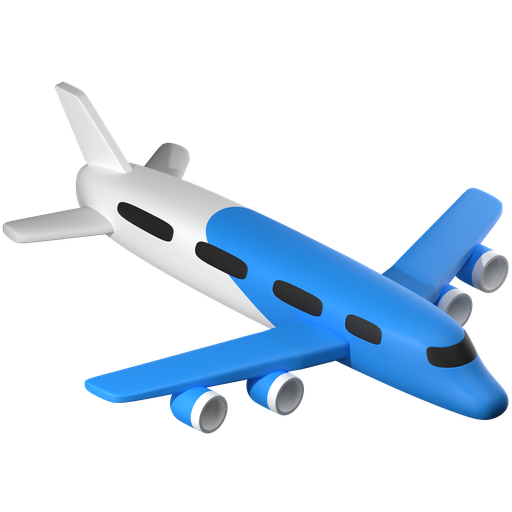
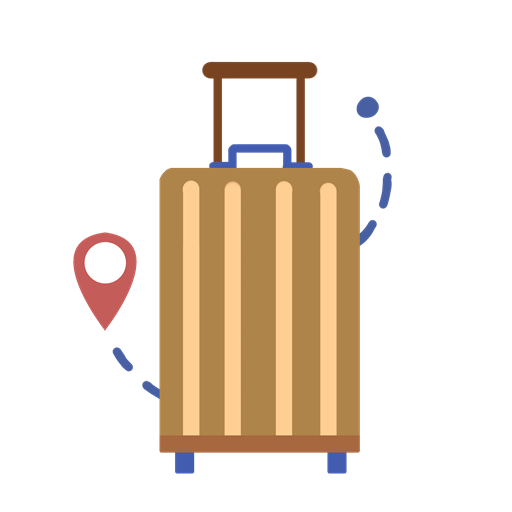
Updates

diff --git a/index.html b/index.html
@@ -16,7 +16,7 @@
     
     <link rel="icon" type="image/svg+xml" href="/Travel-Companion/favicon.svg" />
     
-    <script type="module" crossorigin src="/Travel-Companion/assets/index-CHT0phLu.js"></script>
+    <script type="module" crossorigin src="/Travel-Companion/assets/index-Bz5Pj1fc.js"></script>
     <link rel="stylesheet" crossorigin href="/Travel-Companion/assets/index-BRcRk0VX.css">
   <link rel="manifest" href="/Travel-Companion/manifest.webmanifest"><script id="vite-plugin-pwa:inline-sw">if('serviceWorker' in navigator) {window.addEventListener('load', () => {navigator.serviceWorker.register('/Travel-Companion/sw.js', { scope: '/Travel-Companion/' })})}</script></head>
   <body>

diff --git a/sw.js b/sw.js
@@ -1,1 +1,1 @@
-if(!self.define){let e,s={};const i=(i,r)=>(i=new URL(i+".js",r).href,s[i]||new Promise(s=>{if("document"in self){const e=document.createElement("script");e.src=i,e.onload=s,document.head.appendChild(e)}else e=i,importScripts(i),s()}).then(()=>{let e=s[i];if(!e)throw new Error(`Module ${i} didn’t register its module`);return e}));self.define=(r,n)=>{const o=e||("document"in self?document.currentScript.src:"")||location.href;if(s[o])return;let a={};const d=e=>i(e,o),f={module:{uri:o},exports:a,require:d};s[o]=Promise.all(r.map(e=>f[e]||d(e))).then(e=>(n(...e),a))}}define(["./workbox-2fbc6a65"],function(e){"use strict";self.addEventListener("message",e=>{e.data&&"SKIP_WAITING"===e.data.type&&self.skipWaiting()}),e.precacheAndRoute([{url:"pwa-512x512.png",revision:"19f0ba14a6d7563b37fba2f44da68553"},{url:"pwa-192x192.png",revision:"d232801817200daef003feb80c89ea50"},{url:"index.html",revision:"4dcc3f8568a0a05f3466caf06dc9bba8"},{url:"icons.svg",revision:"3b4fcfcf393eca4d264dca4a4663bc37"},{url:"favicon.svg",revision:"7e840862161341271697daa99a40d76b"},{url:"trips/list.json",revision:"238fdf5e73d02d876a65cd9a3d470c16"},{url:"trips/group-tour.json",revision:"8be08c6d0dac7aaffb69bf1e0b466b1a"},{url:"trips/free-travel.json",revision:"671d21706ce532a4755fa281cd199278"},{url:"assets/workbox-window.prod.es5-Bd17z0YL.js",revision:null},{url:"assets/index-CHT0phLu.js",revision:null},{url:"assets/index-BRcRk0VX.css",revision:null},{url:"pwa-192x192.png",revision:"d232801817200daef003feb80c89ea50"},{url:"pwa-512x512.png",revision:"19f0ba14a6d7563b37fba2f44da68553"},{url:"manifest.webmanifest",revision:"77f7da7e74539c3d08352eec2a04cf69"}],{}),e.cleanupOutdatedCaches(),e.registerRoute(new e.NavigationRoute(e.createHandlerBoundToURL("index.html")))});
+if(!self.define){let e,i={};const r=(r,s)=>(r=new URL(r+".js",s).href,i[r]||new Promise(i=>{if("document"in self){const e=document.createElement("script");e.src=r,e.onload=i,document.head.appendChild(e)}else e=r,importScripts(r),i()}).then(()=>{let e=i[r];if(!e)throw new Error(`Module ${r} didn’t register its module`);return e}));self.define=(s,n)=>{const a=e||("document"in self?document.currentScript.src:"")||location.href;if(i[a])return;let f={};const o=e=>r(e,a),d={module:{uri:a},exports:f,require:o};i[a]=Promise.all(s.map(e=>d[e]||o(e))).then(e=>(n(...e),f))}}define(["./workbox-2fbc6a65"],function(e){"use strict";self.addEventListener("message",e=>{e.data&&"SKIP_WAITING"===e.data.type&&self.skipWaiting()}),e.precacheAndRoute([{url:"—Pngtree—travel with suitcases_6409677.png",revision:"55ee42dc70a77b7ca6b517a92fe3105e"},{url:"—Pngtree—suitcase summer travel tool_4544218.png",revision:"fcff4f29d2e5ea9c854dd5267930e411"},{url:"pwa-512x512.png",revision:"1c6fa0b72ab4799be337dbe05f0955fe"},{url:"pwa-512x512 - 複製.png",revision:"19f0ba14a6d7563b37fba2f44da68553"},{url:"pwa-192x192.png",revision:"0ad5cf19813eca6a6d0a5d886ae2fd93"},{url:"pwa-192x192 - 複製.png",revision:"d232801817200daef003feb80c89ea50"},{url:"index.html",revision:"32c3eacd36c97984d2cd9ebcf4867877"},{url:"icons.svg",revision:"3b4fcfcf393eca4d264dca4a4663bc37"},{url:"favicon.svg",revision:"7e840862161341271697daa99a40d76b"},{url:"512x512-2.png",revision:"f9fecd5346106738ffee52a86ef916c4"},{url:"192x192-2.png",revision:"4a5912554d5ba0e836193071579a63de"},{url:"trips/list.json",revision:"86c5bcd76ad756c493d054784a9f37df"},{url:"trips/group-tour-2026-10.json",revision:"29e34b1696a53b93162a6d7e6f18f493"},{url:"trips/free-travel-2026-01.json",revision:"105a4fbc4397149fe35d3f24a743cff8"},{url:"assets/workbox-window.prod.es5-Bd17z0YL.js",revision:null},{url:"assets/index-Bz5Pj1fc.js",revision:null},{url:"assets/index-BRcRk0VX.css",revision:null},{url:"pwa-192x192.png",revision:"0ad5cf19813eca6a6d0a5d886ae2fd93"},{url:"pwa-512x512.png",revision:"1c6fa0b72ab4799be337dbe05f0955fe"},{url:"manifest.webmanifest",revision:"77f7da7e74539c3d08352eec2a04cf69"}],{}),e.cleanupOutdatedCaches(),e.registerRoute(new e.NavigationRoute(e.createHandlerBoundToURL("index.html")))});